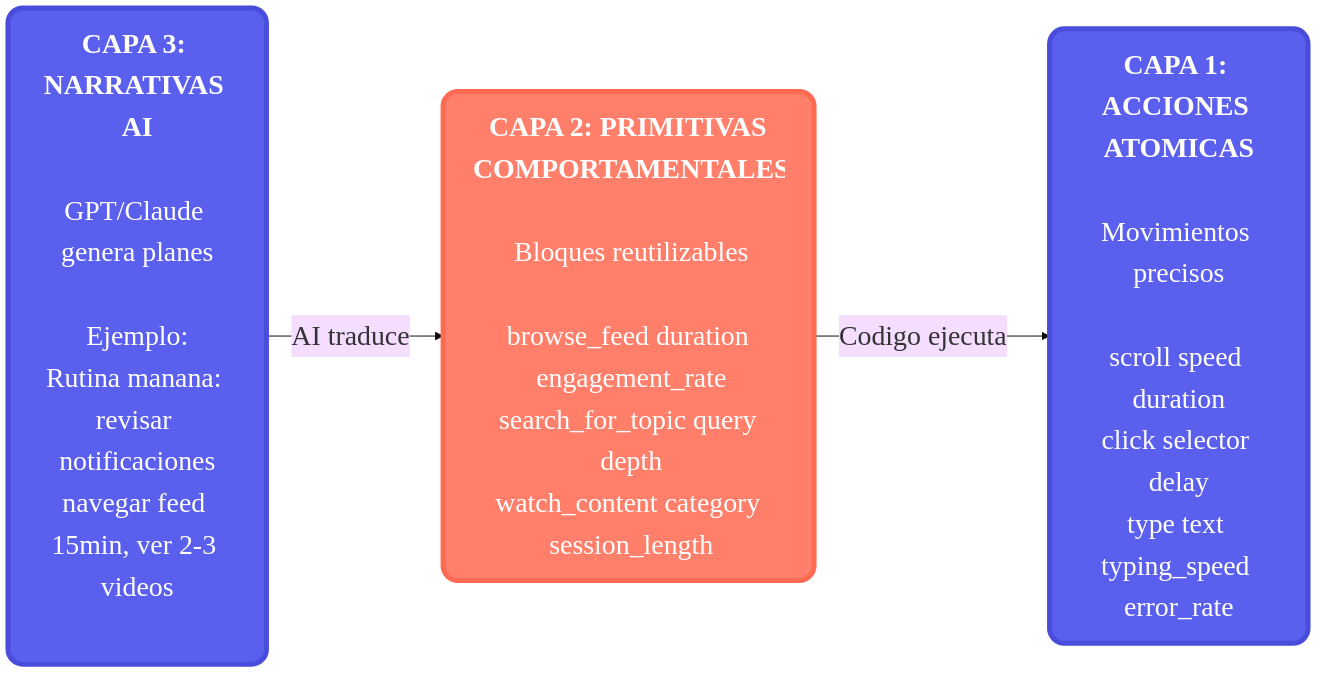
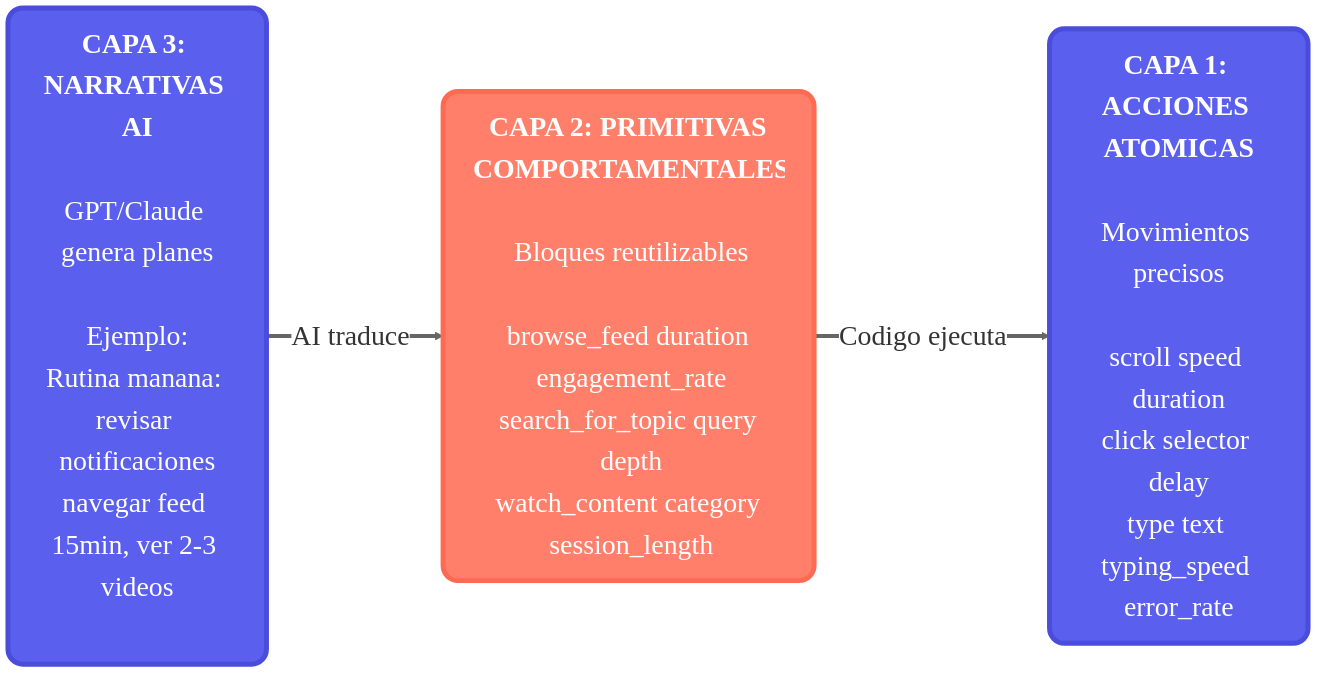
mejoras presentacion

Changed region(s): [[0.6193, 0.466, 0.7742, 0.5281], [0.2168, 0.466, 0.3097, 0.5281]]

diff --git a/docs/presentation/html/index.html b/docs/presentation/html/index.html
@@ -3,7 +3,7 @@
 <head>
     <meta charset="UTF-8">
     <meta name="viewport" content="width=device-width, initial-scale=1.0">
-    <title>Persona - Sistema de Inteligencia de Panel Automatizado</title>
+    <title>Persona - Sistema Automatizado de Panelistas</title>
     <link rel="preconnect" href="https://fonts.googleapis.com">
     <link rel="preconnect" href="https://fonts.gstatic.com" crossorigin>
     <link href="https://fonts.googleapis.com/css2?family=Lato:wght@300;400;700;900&display=swap" rel="stylesheet">
@@ -327,7 +327,7 @@
                 seenka
             </div>
             <h1>Persona</h1>
-            <p class="subtitle">Sistema de Inteligencia de Panel Automatizado</p>
+            <p class="subtitle">Sistema Automatizado de Panelistas</p>
             <div class="speaker-notes">
                 <h3>Notas del Presentador</h3>
                 <p>Introducción: Esta es una presentación conversacional sobre el proyecto Persona. Es importante mantener un tono colaborativo y estar preparado para hacer handoffs con Diego y Zaca si presentan primero.</p>

diff --git a/docs/presentation/visuals/vnc-custom.css b/docs/presentation/visuals/vnc-custom.css
@@ -1,0 +1,14 @@
+.statediagram .transition {
+    stroke: #666666 !important;
+    stroke-width: 4px !important;
+}
+
+.statediagram .relation {
+    stroke: #666666 !important;
+    stroke-width: 4px !important;
+}
+
+.statediagram-state .divider {
+    stroke: #666666 !important;
+    stroke-width: 2px !important;
+}
